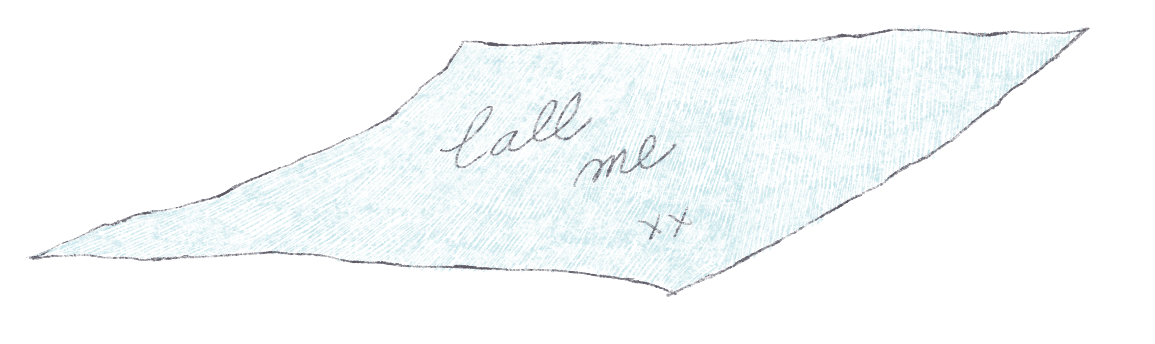
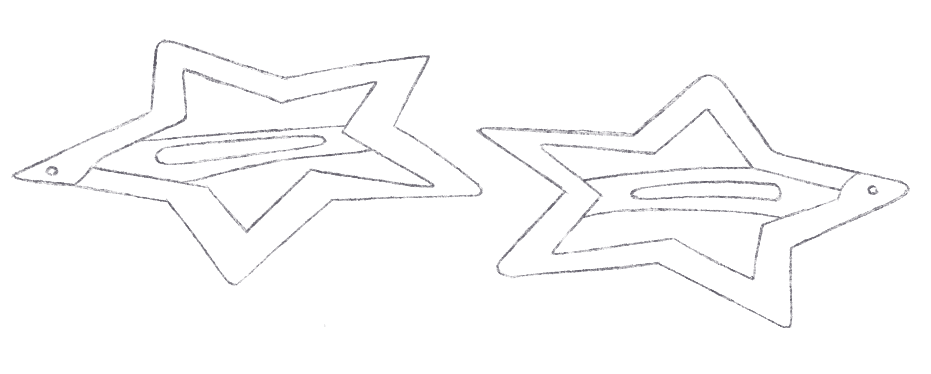
homepage and responsive layout

diff --git a/style.css b/style.css
@@ -1,3 +1,9 @@
+.page-container {
+  max-width: 1400px;
+  margin: 0 auto;
+  padding: 0 30px;
+}
+
 body {
   margin: 0;
   background: white;
@@ -14,25 +20,22 @@ body {
   display: flex;
   align-items: flex-start;
   gap: 70px;
-
-  max-width: 1400px;
-  margin: 60px auto 0;
-  padding: 0 50px;
+  margin: 60px 0 0;
 }
 
 .side-menu {
   display: flex;
   flex-direction: column;
   gap: 30px;
-
   margin-top: -40px;
+  margin-left: 43px;
   min-width: 180px;
 }
 
 .side-menu a {
   text-decoration: none;
   color: #111;
-  font-size: 20px;
+  font-size: 18px;
 }
 
 .home-art {
@@ -44,40 +47,75 @@ body {
   width: 70%;
   max-width: 900px;
   display: block;
+  margin-top: 30px;
 }
 
 .small-illustrations {
   display: flex;
   gap: 30px;
-  margin-top: -10px;
-  margin-left: 280px;
+  margin-top: -25px;
+  margin-left: 200px;
 }
 
 .small-illustrations img {
-  width: 150px;
+  width: 17%;
   display: block;
+  max-width: 160px;
 }
 
 @media (max-width: 900px) {
+  .page-container {
+    padding: 0 24px;
+  }
+
+  .logo {
+    width: 200px;
+    margin: 8px auto 0;
+    display: block;
+  }
+
   .home-layout {
     flex-direction: column;
-    gap: 40px;
+    align-items: center;
+    gap: 30px;
+    margin: 30px 0 0;
+    padding: 0 24px;
   }
 
   .side-menu {
-    margin-top: 0;
-    gap: 25px;
+    flex-direction: row;
+    gap: 28px;
+    margin-top: -20px;
+    min-width: auto;
   }
 
   .side-menu a {
-    font-size: 20px;
+    font-size: 18px;
+  }
+
+  .home-art {
+    margin-top: 0;
+    width: 100%;
+    display: flex;
+    justify-content: center;
+  }
+
+  .main-illustration {
+    width: 100%;
+    max-width: 720px;
+    margin: 0 auto;
+    display: block;
   }
 
   .small-illustrations {
+    justify-content: flex-start;
     gap: 20px;
+    margin: -20px 0 0 10px;
+    padding: 0;
   }
 
   .small-illustrations img {
-    width: 100px;
+    width: 25%;
+    max-width: 160px;
   }
 }

diff --git a/index.html b/index.html
@@ -7,33 +7,34 @@
 
     <link rel="stylesheet" href="style.css" />
   </head>
+  <div class="page-container">
+    <body>
+      <header>
+        <img src="images/logo.png" class="logo" alt="Kiki Sophia logo" />
+      </header>
 
-  <body>
-    <header>
-      <img src="images/logo.png" class="logo" alt="Kiki Sophia logo" />
-    </header>
+      <main class="home-layout">
+        <nav class="side-menu">
+          <a href="work.html">work</a>
+          <a href="shop.html">shop</a>
+          <a href="about.html">about</a>
+        </nav>
 
-    <main class="home-layout">
-      <nav class="side-menu">
-        <a href="work.html">work</a>
-        <a href="shop.html">shop</a>
-        <a href="about.html">about</a>
-      </nav>
+        <section class="home-art">
+          <img
+            src="images/main-illustration.png"
+            class="main-illustration"
+            alt="Homepage illustration"
+          />
+        </section>
+      </main>
 
-      <section class="home-art">
-        <img
-          src="images/main-illustration.png"
-          class="main-illustration"
-          alt="Homepage illustration"
-        />
-      </section>
-    </main>
+      <div class="small-illustrations">
+        <img src="images/small-1.png" alt="Illustration 1" />
+        <img src="images/small-2.PNG" alt="Illustration 3" />
+      </div>
 
-    <div class="small-illustrations">
-      <img src="images/small-1.png" alt="Illustration 1" />
-      <img src="images/small-3.png" alt="Illustration 3" />
-    </div>
-
-    <script src="app.js"></script>
-  </body>
+      <script src="app.js"></script>
+    </body>
+  </div>
 </html>